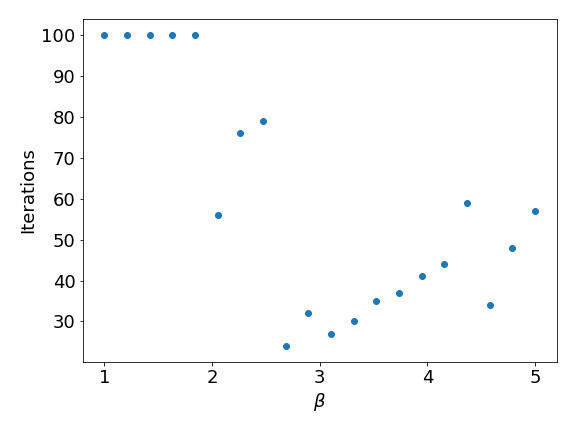
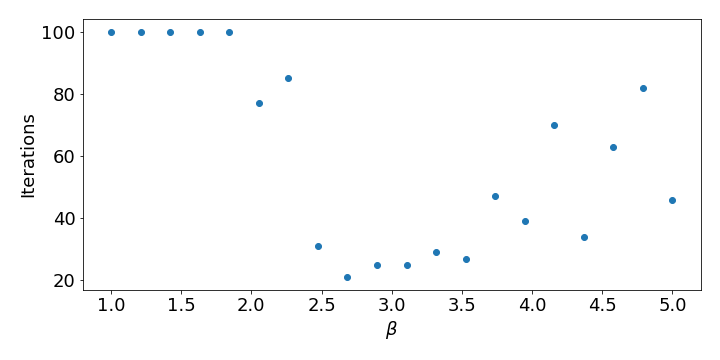
finsh p2b b

diff --git a/main.tex b/main.tex
@@ -1,5 +1,5 @@
 \documentclass[11pt,a4paper]{article}
-\usepackage[left=2.5cm,top=2cm,right=2.5cm,nofoot]{geometry}
+\usepackage[left=2.3cm,top=2cm,right=2.3cm,nofoot]{geometry}
 \usepackage{geometry}
 \usepackage{amsmath}
 \usepackage{amssymb}
@@ -108,11 +108,11 @@ One system of interest in materials science is one where an adsorbed atom, an ad
 
 Both of these challenges will be tackled in this report using Gaussian Processes (GP). The first problem will be approached using Bayesian Optimization, and for the second problem we will train a general purpose model for the PES using only $\sim 100$ potential energy samples. This general purpose model can then be used instead of DFT to study various properties of the adatom \cite{project_pm}. We will specifically apply the general purpose model to predict the potential energy along a transition path for the adatom between two points on the crystal surface, and compare this to the ground-truth transition path as obtained from the PES.
 
-The system of interest in this report is an Au-surface with an Au adatom. Note that this system will be simulated using atomistic simulations through the Python package \texttt{ASE} \cite{ASE}, and hence the ground-truth PES is being computed through MD simulations rather than DFT. However, this report still exemplifies the usefulness of Bayesian Optimization and GP-models for functions that are difficult to evaluate.
+The system of interest in this report is an Au-surface with an Au adatom. Note that this system will be simulated using atomistic simulations through the Python package \texttt{ASE} \cite{ASE}, and specifically that the ground-truth PES is being computed through Embedded Medium Theory (EMT) calculations rather than DFT \cite{project_pm}. However, this report still exemplifies the usefulness of Bayesian Optimization and GP-models for functions that are difficult to evaluate.
 
 \section{Methodology}
 
-In this section we present our methodology for analyzing and approximating the potential energy surface (PES) using Bayesian optimization for a Au surface with an Au atom placed on top. But before we go into detail on the Bayesian optimization, we first present the ground-truth PES that will be used as a basis for the optimization, as well as the results for trying to find the global minimum of the PES using naive local search which serves as a sort of baseline.
+In this section we present our methodology for analyzing and approximating the potential energy surface (PES) using Bayesian optimization for a Au surface with an Au atom placed on top. But before we go into detail on the Bayesian optimization, we first present the ground-truth PES that will be used as a basis for the optimization, as well as the results for trying to find the global minimum of the PES using naive local search.
 
 
 \begin{figure}[ht]
@@ -122,28 +122,26 @@ In this section we present our methodology for analyzing and approximating the p
     \label{fig:pes}
 \end{figure}
 
-The Au system was simulated using \texttt{ASE}, a Python package for atomistic simulations \cite{ASE}, with the surface being given. In order to obtain the PES $E(x,y)$, the surface atom was introduced at different coordinates $(x,y,z)$ with $z$ being set so that the surface atom was placed some distance above the surface, after which the system was relaxed using BFGS as implemented in \texttt{ASE}. The $(x,y)$ values formed a 50x50 grid, and the obtained PES is given in figure \ref{fig:pes}, with the global minimum being marked with a red star. Note that there are many local minima in the PES; a quick visual inspection yields that there are at least 12 local minima. We thus expect that conducting a local search to find the global minimum starting from random positions $(x,y)$ should succeed with a probability around $p \approx 1/12 \approx 8\%$. We performed such a search using 500 walkers with random starting positions, which were then minimized using the \texttt{minimize} function from the Python package \texttt{Scipy} setup to use the gradient-based L-BFGS-B method \cite{scipy_min}. The optimum found by each walker are given in figure \ref{fig:pes} as black dots. The local search resulted in 11.6\% of the walkers converging to the global minimum, which is slightly higher than our expectation, but still highlights the difficulty of performing optimization in complex energy landscapes using (naive) local gradient descent-based algorithms. Thus it is motivated to use methods such as Bayesian optimization, which we will focus on throughout the rest of this report. 
+The Au system was simulated using \texttt{ASE}, a Python package for atomistic simulations \cite{ASE}, with the surface being given. In order to obtain the PES $E(x,y)$, the surface atom was introduced at different coordinates $(x,y,z)$ with $z$ being set so that the surface atom was placed some distance above the surface, after which the system was relaxed using BFGS as implemented in \texttt{ASE}. Since the PES is periodic, we only study the primitive cell $x\in\left(0,16.65653\right)$, $y\in\left(0,2.884996\right)$. The $(x,y)$ values formed a 50x50 grid, and the obtained PES is given in figure \ref{fig:pes}, with the global minimum being marked with a red star with coordinates $(3.4, 0.71)$. Note that there are many local minima in the PES; a quick visual inspection yields that there are at least 12 local minima. We thus expect that conducting a local search to find the global minimum starting from random positions $(x,y)$ should succeed with a probability around $p \approx 1/12 \approx 8\%$. We performed such a search using 500 walkers with random starting positions, which were then minimized using the \texttt{minimize} function from the Python package \texttt{Scipy}, which was setup to use the gradient-based L-BFGS-B method \cite{scipy_min}. The optimum found by each walker are given in figure \ref{fig:pes} as black dots. The local search resulted in 11.6\% of the walkers converging to the global minimum, which is slightly higher than our expectation, but still highlights the difficulty of performing optimization in complex energy landscapes using (naive) local gradient descent-based algorithms. Thus it is motivated to use methods such as Bayesian optimization, which we will focus on throughout the rest of this report. 
 
-\subsection[Task 1]{Task 1-2: Analyzing the PES and local search}
-\label{sec:method_task12}
 
 \subsection[Task 1]{Task 3: Bayesian Optimization}
 \label{sec:method_task3}
-In this task we want to perform a Bayesian optimization algorithm to find the global minimum, but also sample the PES as few times as possible. In general, sampling the PES our any other multidimensional function can be very expensive and time consuming, as in this case performing a DFT calculation. This Bayesian optimization algorithm is based on Gaussian processes (GP), which can be viewed as an infinite dimensional Gaussian distribution where each point in the $(x,y)$-plane is a dimension. The function modelled by the GP (the PES) is then uniquely determined via the GPs covariance function. So by conditioning the GP on some data, we obtain a distribution for the PES everywhere in the $(x,y)$-plane. In this task we used the GPy package to handle the implementation of the GP so we only need to choose how we determine the covariance function. The covariance function is modelled by a kernel and we will use the radial basis function (RBF) kernel which looks like 
+In this task we applied a Bayesian optimization algorithm to find the global minimum, while sampling the PES as few times as possible. In general, sampling the PES or any other multidimensional function can be very expensive and time consuming. The Bayesian optimization algorithm is based on Gaussian processes (GP), which can be viewed as an infinite dimensional Gaussian distribution where each point in the $(x,y)$-plane is a dimension. The function modelled by the GP (the PES) is then uniquely determined via the GPs covariance function. So by conditioning the GP on some data, we obtained a distribution for the PES everywhere in the $(x,y)$-plane. In this task we used the GPy package to handle the implementation of the GP so we only needed to choose how to determine the covariance function. The covariance function was modelled by a kernel and we used the radial basis function (RBF) kernel which looks like 
 \begin{equation*}
     k(x, x') = \sigma^2 \text{exp}(-\frac{1}{2l^2}||x - x'||_{L2}^2),
 \end{equation*}
-where $\sigma^2$ and $l$ is two parameters known as the kernel variance and the kernel length scale. The kernel variance is in a way the amplitude of the covariance and thus describes how large the variations are in the PES. So from figure \ref{fig:pes} we see that the PES has extremums  at 7 eV and 8 eV so the standard deviation maybe lie around 0.3 and the variance then 0.09. So we choosed to set a gamma distributed prior for $\sigma^2 \sim \mathcal{G}(1,0.1)$. The length scale determines how far between the points need to be to not be regarded as correlated, or in other words over how large regions are the PES roughly constant or slowly varying. So from figure \ref{fig:pes} we can see that maximum extends over roughly 0.5 Å. We thus set a prior for the length scale to be a gamma distribution $\mathcal{G}(2,0.5)$ which has mean 0.5 Å.
-\\
+where $\sigma^2$ and $l$ are two parameters known as the kernel variance and the kernel length scale. The kernel variance is in a way the amplitude of the covariance and thus describes how large the variations are in the PES. From figure \ref{fig:pes} we see that the PES has minimum and maximum at 0.2 eV and 1.3 eV, so the standard deviation is around 0.3 and the variance is then around 0.09. Based on this we set a gamma distributed prior for $\sigma^2 \sim \mathcal{G}(1,0.1)$. The length scale determines how far apart the points are regarded as correlated, or in other words over how large regions the PES is roughly constant or slowly varying. From figure \ref{fig:pes} we observe that the PES is roughly constant over distances $\sim \SI{0.5}{Å}$. We thus set a prior for the length scale to be a gamma distribution $\mathcal{G}(2,0.5)$. Furthermore we also added a bias kernel to increase the performance of our GP.
 
-We have now described the basics of a GP and specified a kernel with priors for our parameters and can thus make a prediction $\mu(x,y)$ with standard deviation uncertainty $\delta(x,y)$ over the whole primitive cell. So we now need to define where we want to sample a new point, from our prediction. To decide this we define the acquisition function
-\begin{equation*}
+
+We have now described the basics of a GP and specified a kernel with priors for our parameters. We can thus, by training the GP on some initial data, make a prediction $\mu(x,y)$ with standard deviation uncertainty $\delta(x,y)$ over the whole primitive cell. To search for the global minimum we want to sample a new point, and we thus need to define where to sample this new point, based on our prediction. We define the acquisition function
+\begin{equation}
+    \label{eq:acquisition_function}
     A(x,y) = -\mu(x,y) + \beta \delta(x,y),
-\end{equation*}
-where beta is a hyper parameter we must choose. By finding the the point where the acquisition function as a maximum we sample point where the PES is low and where the GP is uncertain, and the hyper parameter thus balances if we think exploitation or exploration is more important. To summarise the algorithm then consist of first evaluate the PES at 5 random points, training the GP model and do a prediction of the PES. From the prediction we then evaluate the PES again for a point obtained by maximizing the acquisition function and then train a new GP with the new data point. This is then repeated until one is satisfied with the sampling.  
-\\
+\end{equation}
+where beta is a hyper parameter we must choose. By finding the point where the acquisition function has a maximum we sample points where the PES is low and where the GP is uncertain, and the hyper parameter thus balances between exploitation or exploration in the algorithm. The implementation of the algorithm consisted of the following steps. First, evaluate the PES at 5 random points, train the GP model using these points and then do a prediction of the PES. From the prediction, evaluate the PES again for the point obtained by maximizing the acquisition function, and then train a new GP with the new data point added to the old data points. This is then repeated until one is satisfied with the sampling.  
 
-So we now have the complete Bayesian optimisation algorithm and the next part is to decide a good value of the hyper parameter $\beta$. To do this we performed the optimization for many values of $\beta \in (1,5)$ and then evaluated the performance by looking at the convergence. So keeping in mind that we generally want to find the global minimum and evaluate the PES as few times as possible we define convergence to be when the GP finds the global minimum. With this definition we can decide the hyper parameter by choosing the $\beta$ that resulted in least amount of samples. 
+So we now have the complete Bayesian optimisation algorithm and the next part is to decide a good value of the hyper parameter $\beta$. To do this we performed the optimization for many values of $\beta \in (1,5)$ and then evaluated the performance by studying the convergence. So keeping in mind that we generally want to find the global minimum and evaluate the PES as few times as possible we define convergence to be when the GP finds the global minimum. With this definition we can decide the hyper parameter by choosing the $\beta$ that resulted in the least amount of samples. 
 
 
 
@@ -170,14 +168,21 @@ So we now have the complete Bayesian optimisation algorithm and the next part is
 
 In this task, we study GPs as a way of emulating the full PES. Using GPs to emulate the PES yields a fast model which can be used to compute various properties related to the adatom \cite{project_pm}. In this case, we will specifically focus on using the GP model to analyze a transitional path barrier. 
 
-Here we will study the specific transition path through the PES that connects the point $(11,2.1)$ with the global minimum. This could thus be viewed as a having the adatom transition from a position on the Au surface that yields a local minimum in the system energy, to a configuration that minimizes the total system energy. An arbitrary path between the points $(x_1,y_1)$ and $(x_2,y_2)$ can be parameterized by a parameter $\lambda$ that varies between $0\rightarrow1$ as
+Here we will study the specific transition path through the PES that connects the point $(11,2.1)$ with the global minimum at $(3.4,0.71)$. An arbitrary path between the points $(x_1,y_1)$ and $(x_2,y_2)$ can be parameterized by a parameter $\lambda$ that varies between $0\rightarrow1$ as
 
 \begin{equation}
     (x,y) = \left(x_1, y_1 \right ) + \lambda \left(x_2-x_1, y_2-y_1 \right).
 \end{equation}
-Thus by evaluating the GP mean of the obtained model for points $(x,y)$ for various $\lambda$, we obtained the sought transition path as a function of $\lambda$. The uncertainty in the GP prediction along the path was estimated by evaluating the GP variance along the same points $(x,y)$. These results could then be compared to the Bayesian Optimization GP from Task 3 and the ground-truth PES evaluated along the same path. 
+Thus by evaluating the GP mean of the obtained model for points $(x,y)$ for various $\lambda$, we could obtain a transition path as a function of $\lambda$. In our specific case, the starting point $(x_1,y_1)$ was the global minimum and the end point $(x_2,y_2)$ was the point $(11,2.1)$. The uncertainty in the GP prediction along the path was estimated by evaluating the GP variance along the same points $(x,y)$. These results could then be compared to the Bayesian Optimization GP with optimal $\beta$ from Task 3, where the model was trained until convergence was reached, and the ground-truth PES evaluated along the same path. 
 
-In order to obtain a GP model that emulates the ground-truth PES to a high degree, we require a slightly different sampling behaviour as compared to the previous task in section \ref{sec:method_task3}. The key quantity to minimize is the overall uncertainty of the GP over the $\{x,y\}$-domain, and thus we want to sample points where the GP uncertainty is the largest. Thus, the LCB acquisition function in equation \eqref{eq:acquisition_function} was modified by letting $\beta \rightarrow \infty$ \cite{project_pm}. The GP model was then trained by sampling points according to this modified acquisition function, and the convergence of the model was monitored by computing the RMSE (root-mean-squared-error) of the GP mean as compared to the ground truth PES. The same priors, grid size for the acquisition function and number of starting initial data points as in task 3, section \ref{sec:method_task3}, where used.
+In order to obtain a general-purpose GP model that emulates the ground-truth PES to a high degree, we require a slightly different sampling behaviour as compared to the previous task in section \ref{sec:method_task3}. The key quantity to minimize is the overall uncertainty of the GP over the $\{x,y\}$-domain, and hence we want to sample points where the GP uncertainty is the largest. Thus, the acquisition function in equation \eqref{eq:acquisition_function} was modified by letting $\beta \rightarrow \infty$ \cite{project_pm}. The GP model was then trained by sampling points according to this modified acquisition function, and the convergence of the model was monitored by computing the RMSE (root-mean-squared-error) of the GP mean as compared to the ground truth PES. The same priors and number of initial data points as in task 3, section \ref{sec:method_task3}, where used.
+
+
+
+
+
+
+
 
 \section{Results and discussion}
 
@@ -185,84 +190,60 @@ In this section we present our result for Bayesian optimization of the PES, as w
 
 \subsection[Task 1]{Task 3: Bayesian Optimization}
 \label{sec:results_task3}
-To evaluate the model for different values of the hyper parameter $\beta$ figure \ref{fig:task3_iter} is presented. In the figure we see how many iterations it took before the optimization algorithm found the global minimum. From the figure it is clear that the algorithm does not converge for all values of beta. In particular algorithms with to small $\beta$ never finds the global minimum. However, we also see from the figure that large $\beta$ demands more iteration before convergence. Both of these features seems reasonable; for small $\beta$ the algorithm is more likely to keep sampling a local minimum instead of exploring more of the space. This then resulting in sensitivity for the location of the starting point and we end up in the same situation we got for the naive search on task 2. For large $\beta$ we are on the other hand more inclined to explore new parts of the space even if we already samples near the global minimum. This may lead to the sinareo where we found the global minimum but we have not sampled it fine enough to determine its exact location. This scenario could also be very dependent on the convergence condition; how close to the global minimum do you need to sample to say you found it. So from the figure we seem to have a optimal value for the hyper parameter somewhere around $\beta = $???, for which the algorithm finds the global minimum the fastest. However this result is only valid for when we send in this particular set of initial data. For another set of data which is closer to the global minimum the algorithms with low $\beta$ might find it much faster. But also if the global minimum would have been farther away from the initial data maybe algorithms with $\beta$ higher then ??? also would have had trouble finding it. So to decrease this uncertainty and be more confident in the choice of beta one should do this sweep over the hyper parameter many times where different initial data is used and then present the average number of iterations.
+To study the model for different values of the hyper parameter $\beta$ figure \ref{fig:task3_iter} is presented. The figure describes how many iterations the optimization algorithm required before it found the global minimum. From the figure it is clear that the algorithm does not converge for all values of beta. In particular for small $\beta$ the algorithm never finds the global minimum within the number of cutoff iterations. However, observe from the figure that large $\beta$ demands more iterations before convergence. Both of these features seems reasonable; for small $\beta$ the algorithm is more likely to keep sampling a local minimum instead of exploring more of the space. This results in a sensitivity for the location of the starting point and we end up in the same situation we got for the naive search on task 2. For large $\beta$ we are on the other hand more inclined to explore new parts of the space even if we already have samples near the global minimum. Thus, for large $\beta$ the algorithm becomes very dependent on the convergence condition; how close to the global minimum do you need to sample to say you have found it? So from the figure we seem to have a optimal value for the hyper parameter somewhere around $\beta = 2.6$, for which the algorithm finds the global minimum in the fewest number of iterations. However this result is only valid for when we send in this particular set of initial data. For another set of data which is closer to the global minimum the algorithms with low $\beta$ might find it much faster. But also if the global minimum would have been further away from the initial data maybe algorithms with $\beta$ equal or higher then the observed optimal $\beta$ also would have had trouble finding it. So to decrease this uncertainty and be more confident in the choice of beta one should do this sweep over the hyper parameter many times where different initial data is used and then present the average number of iterations.
 
-To further extend on this analysis the choice of convergence criteria is a bit arbitrary and can highlight different aspect of the algorithm. An alternative definition of convergence could for example be when the algorithms samples the same point (to some tolerance) two or more times in a row. This convergence criterion is probably also very sensitive to the initial data, but if that uncertainty is eliminated (as described above) algorithms with lower $\beta$ should always converge faster. The problem is that it does not always converge to the global minimum so one here also needs to consider how many times (different initial data) the algorithms finds the global minimum for each value of $\beta$ and then balance the two curves of the convergence and efficiency of finding the global minimum. To use this convergence condition may be more reasonable since we in a general situation do not know the global minimum and then needs some other condition on when to stop sampling. In the other case the thing we really are interasted in is to find the global minimum with as few evaluations of the PES as possible which the convergence condition we used highlights. However both of these methods to decide $\beta$ and especially the condition we used probably  generalize poorly to other functions since it could be very sensitive to the form of the function.
+To further extend on this analysis, the choice of convergence criteria is a bit arbitrary and can highlight different aspects of the algorithm. An alternative definition of convergence could for example be when the algorithms samples the same point (to some tolerance) two or more times in a row. This convergence criterion is probably also very sensitive to the initial data, but if that uncertainty is eliminated (as described above) algorithms with lower $\beta$ should always converge faster. The problem is that it does not always converge to the global minimum so one here also needs to consider how many times (different initial data) the algorithms finds the global minimum for each value of $\beta$, and then find the $\beta$ that balances the convergence and efficiency of finding the global minimum. To use this convergence condition may be more reasonable since we in a general situation do not know the global minimum and then needs some other condition on when to stop sampling. On the other hand, the thing we really are interested in is to find the global minimum with as few evaluations of the PES as possible which the convergence condition we used highlights. However both of these convergence conditions to decide $\beta$, especially the condition we used, probably generalize poorly to other functions since it could be very sensitive to the specific form of the function.
 
-\begin{figure}[H]
+\begin{figure}[ht]
     \centering
-    \includegraphics[width = 0.8\textwidth]{figures/task3_iter.png}
-    \caption{Caption}
+    \includegraphics[width = 0.6\textwidth]{figures/task3_iter.png}
+    \caption{Number of iterations required for the algorithm to find the global minimum for different values of the hyper paramer $\beta$.}
     \label{fig:task3_iter}
 \end{figure}
 
-\begin{figure}[H]
-    \centering
-    \includegraphics[width = 0.8\textwidth]{figures/task3_mean.png}
-    \caption{Caption}
-    \label{fig:my_label}
-\end{figure}
-
-\begin{figure}[H]
-    \centering
-    \includegraphics[width = 0.8\textwidth]{figures/task3_var.png}
-    \caption{Caption}
-    \label{fig:my_label}
-\end{figure}
-
-\begin{figure}[H]
-    \centering
-    \includegraphics[width = 0.8\textwidth]{figures/task3_acq.png}
-    \caption{Caption}
-    \label{fig:my_label}
-\end{figure}
-
-So once we had decided on a good value for $\beta = $??
-? we reran the algorithm and the result is presented in figure \ref{fig:task3_pred}. In the figure we see prediction of the GP for the PES together with the predicted uncertainty and the acquisition function. This all for the last step in the algorithms, i.e when we converged. From the mean plot we can clearly see that it has found the global minimum and captures the features of the the PES close to the minimum. For other regions however the GP does not capture the PES, which is good since we only are interested in finding the Global minimum. From the figure we also see a heat map for the standard deviation uncertainty over the primitive cell. We can see that the uncertainty varies a bit over the cell and is generally much lower near the samples, which is expected. From the figure we also see the acquisition function which as expected balance the search between searching the found minimum and the uncertain areas. We can also see that the acquisition function that is large in a big portion of the area..... 
+Once we had decided on a good value for $\beta = 2.6$ we reran the algorithm and the result is presented in figure \ref{fig:task3_pred}. In the figure we see the prediction of the GP for the PES together with the predicted uncertainty and the acquisition function. These are for the last step in the algorithm, i.e when the model had converged. From the mean plot we can clearly see that the model has found the global minimum and captures the features of the PES close to the minimum. For other regions however the GP does not capture the PES, which is good since we only are interested in finding the global minimum. From the figure we also see a heat map for the standard deviation uncertainty over the primitive cell. We can see that the uncertainty varies a bit over the cell and is generally much lower near the samples, which is expected. We also notice that the uncertainty seems to be largest around the maximas of the PES seen in \ref{fig:pes}. This is also very reasonable since maxima are the least interesting to sample according to the acquisition function. Finally, in the figure we also see the acquisition function which as expected balances the search of the found minimum and the uncertain areas.
 
 
-One interesting observation that can be made from the figure is that many of the sampled points lay along the edges of the primitive cell. This feature was generally observed when performing the optimization and was even more prominent when we had more samples. We conclude that this must be because the GP becomes much more uncertain in its prediction near the edges. This is very reasonable since the edge break the symmetry of where nearby sampled points are located from which we can use in the inference. This effectively leads to at this points the GP is almost doing an extrapolation instead of an interpolation. However we know that the primitive cell is periodic so in a sense we have sampled points outside the boundary condition, this information is unfortunately not used in the GP. Having said that this can be built into the GP by using a periodic kernel instead. We made some attempts with the Standard periodic kernel but had some trouble with instability of the method. But when it worked the sampling was distributed much better over the primitive cell and we avoided sampling the edge over and over again. Ultimatly this leads to the need of fewer samples and we strongly believe that the best way to sample this PES is to use the knowledge of periodicity in the GP by encoding it in the kernel. 
+One interesting observation that can be made from the figure is that many of the sampled points lay along the edges of the primitive cell. This feature was generally observed when performing the optimization and was even more prominent when we had more samples. We conclude that this must be because the GP becomes much more uncertain in its prediction near the edges. This is reasonable since the edge breaks the symmetry of where nearby sampled points are located, from which we can use in the inference. This effectively leads to the GP almost performing some sort of extrapolation instead of an interpolation near the edge. However, we know that the primitive cell is periodic so in a sense we have sampled points outside the boundary. This knowledge of the periodicity is unfortunately not used in the GP. Having said that, this can be built into the GP by using a periodic kernel instead. We made some attempts with the Standard periodic kernel but had some trouble with instability of the method. But when it worked the sampling was distributed much better over the primitive cell and we avoided sampling the edge over and over again. Ultimately this leads to the need for fewer samples and we strongly believe that the best way to sample this PES is to use the knowledge of periodicity in the GP by encoding it in the kernel. 
 
 
-\begin{figure}[H]
-    \centering
-    \includegraphics[width = 1\textwidth]{figures/task3_pred.png}
-    \caption{Caption}
+\begin{figure}[ht]
+    \hspace{-50pt}
+    %\centering
+    \includegraphics[width = 1.2\textwidth]{figures/task3_pred.png}
+    \caption{To the left the acquisition function when the the algorithm find the global minimum together with the initial and sampled data points. In the middle the mean prediction of the GP over the PES and to the right the GPs uncertainty in its prediction. }
     \label{fig:task3_pred}
 \end{figure}
 
 \subsection[Task 4]{Task 4: Transition path barriers}
 \label{sec:results_task4}
 
-We finally turn to the results for the use of a general GP as a proxy for the PES, and how it can be used to predict a transition path for the adatom on the Au surface. The RMSE as monitored during training of the GP is given in figure \ref{fig:task4_rmse}. The RMSE is computed as the root-mean-squared error between the GP mean and the ground-truth PES, and is given as a function of the number of training samples as acquired by the modified acquisition function. We note that the training RMSE features some plateaus and fluctuations. The plateaus could correspond to local minimum in the GP optimization landscape, and the fluctuations could be due to the model not having fully converged and thus not being ''robust''. However, after around 120 samples the RMSE starts to decrease monotonously, and seems to flatten out at around 150 samples at a low training RMSE of $\SI{0.04}{eV}$. We thus conclude that around 150 samples are required to reach a general GP that represents the ground-truth PES well. This is fewer than what was used to computed the ground-truth PES in figure \ref{fig:pes}, where 2500 (50x50) energy samples was used.
+We finally turn to the results for the use of a general-purpose GP as a proxy for the PES, and how it can be used to predict a transition path for the adatom on the Au surface. The RMSE as monitored during training of the GP is given in figure \ref{fig:task4_rmse}. The RMSE is computed as the root-mean-squared error between the GP mean and the ground-truth PES, and is given as a function of the number of training samples as acquired by the modified acquisition function. We note that the training RMSE features some plateaus. The plateaus could correspond to local minimum in the GP optimization landscape, or that some of the sampled points do not contain enough information to improve the GP mean prediction. We observed during training that a substantial number of samples where drawn from the boundary of the primitive cell. As discussed in Task 3, the symmetry break induced by the edge may lead to an artificially high uncertainty, which means that these points will be sampled without contributing all that much to the mean prediction. However, after around 120 samples the RMSE starts to decrease monotonously, and seems to flatten out at around 150 samples at a low training RMSE of $\SI{0.04}{eV}$. We thus conclude that around 150 samples are required to reach a general GP that represents the ground-truth PES well. This is fewer than what was used to computed the ground-truth PES in figure \ref{fig:pes}, where 2500 (50x50) energy samples were used, which could be an enormous difference in the cases where the PES is computationally difficult to compute.
 
 \begin{figure}[ht]
     \centering
     \begin{subfigure}{.46\textwidth}
           \centering
-          \includegraphics[width=0.95\textwidth]{figures/task4_train.png}
+          \includegraphics[width=1\textwidth]{figures/task4_train.png}
           \caption{Training RMSE for general GP}
           \label{fig:task4_rmse}
     \end{subfigure}%
     \begin{subfigure}{.46\textwidth}
           \centering
-          \includegraphics[width=0.95\textwidth]{figures/task4_path.png}
+          \includegraphics[width=1\textwidth]{figures/task4_path.png}
           \caption{Predicted and ground-truth transition path}
     \label{fig:task4_transition}
     \end{subfigure}
-    \caption{}
+    \caption{RMSE compared to the ground-truth PES as monitored during the training of the general-purpose GP, as well as predicted and ground-truth potential energy along the studied transition path.}
     \label{fig:task4}
 \end{figure}
 
-The potential energy transition path for the adatom transitioning between two points on the Au-surface is given in figure \ref{fig:task4_transition}. The mean predicted path from the general GP (referred to as Task 4), $\mu_{GP}$ is given as the blue filled line, with a one standard deviation error band obtained from the GP variance, $\sqrt{\sigma^2_{GP}}$, represented by the blue shadowed area. The mean predicted path for the Bayesian optimization GP (Task 3) is given as the red dashed line, with the one standard deviation error band given by the red shadowed area. Finally, the ground-truth transition path as obtained from the PES is given as the dotted black line. We observe that both the mean and the one-standard deviation error bands for both the Bayesian optimization GP and the general GP overlap almost perfectly. Furthermore, both GPs seems to model the the ground-truth PES fairly well, with it being mostly covered by the one-standard deviation error band. However, both GP models undershoots the ground-truth around the peak at $\lambda\approx0.6$ as well as close to the global minimum, i.e. for $\lambda\approx 0$, except for at the minimum point $\lambda = 0$. Furthermore, the GP variances are generally the largest at the peaks of the PES, with it being the largest in the vicinity of the peak at $\lambda\approx0.6$ which is gravely undershot. 
+The potential energy transition path for the adatom transitioning between the two points on the Au-surface is given in figure \ref{fig:task4_transition}. The mean predicted path from the general GP (referred to as Task 4), $\mu_{GP}$ is given as the blue filled line, with a one standard deviation error band obtained from the GP variance, $\sqrt{\sigma^2_{GP}}$, represented by the blue shadowed area. The mean predicted path for the Bayesian optimization GP (Task 3) is given as the red dashed line, with the one standard deviation error band given by the red shadowed area. Finally, the ground-truth transition path as obtained from the PES is given as the dotted black line. We observe that the general purpose GP follows the ground-truth PES fairly well with it being mostly covered by the one-standard deviation error band, whilst the Bayesian optimization GP only manages to capture some of the rough features of the PES. Furthermore, the general-purpose GP model deviates from the ground-truth around the peak at $\lambda\approx0.6$ as well as close to the global minimum, i.e. for $\lambda\approx 0$, except for at the minimum point $\lambda = 0$. The general-purpose GP variance is also generally the largest at the peaks of the PES, with it being the largest in the vicinity of the peak at $\lambda\approx0.6$. Note that the variance is larger in general for the Bayesian optimization GP than for the general-purpose GP, which can be explained by the Bayesian optimization GP being trained on $\sim20$ data points, whilst the general-purpose GP was trained on $\sim 150$ data points.
 
-These results indicates two things. First, that Bayesian optimization using fairly few data points, $\sim 20$, performs as well as the general GP trained using $\sim 100$ data points for this transition path. Thus, our results indicate that one can decrease the number of points one needs to sample by optimizing the LCB acquisition function and setting an optimal $\beta$ for a balance between exploration and exploitation of the PES. The general GP can hence be viewed as more of a ``brute-force'' approach. Secondly, that the GP models reproduce the PES fairly well motivates that Gaussian processes in general could be effectively used as a proxy model for the PES to compute properties of the system with reasonable accuracy, in situations where the ground-truth PES is difficult to sample and one thus has access to a limited number of data points. However, there are some deviations for the GP models, especially around the global minimum ($\lambda\approx 0$), and hence the specific GP models studied in this report may not be perfectly suitable for applications which depend on a accurate modelling around the global minimum. It is possible that the use of other kernels which utilize more information of the system, such as the Standard periodic kernel discussed in the previous section, may be able to represent the area around the global minimum with higher accuracy.
+These results indicates two things. First, that the use of a general-purpose GP performs much better than one obtained by using Bayesian optimization. Perhaps unsurprisingly, this can be explained by that the two models are used to answer different questions; the Bayesian optimization algorithm aims to find the global minimum as quickly as possible (i.e. using as little data as possible), whilst the general-purpose model tries to model the ground-truth PES as closely as possible. Interestingly, the root of these different behaviours for the two models lies in the acquisition function, and highlights that the general-purpose GP is a special case of the Bayesian optimization algorithm in which exploration of the PES is the only thing that is valued ($\beta \rightarrow\infty$). Secondly, that the general-purpose GP model reproduce the PES fairly well motivates that Gaussian processes in general could be effectively used as a proxy model for the PES to compute properties of the system with reasonable accuracy, in situations where the ground-truth PES is difficult to sample and one thus has access to a limited number of data points. However, there are some deviations for the GP models, especially around the peaks and close to the global minimum ($\lambda\approx 0$) of the PES, and hence the specific GP models studied in this report may not be perfectly suitable for applications which depend on an accurate modelling in these regions. Note though that we observed during training that a lot of the sampled points for the general-purpose model ended up on the boundary of the primitive cell. It is thus possible that the use of other kernels which utilize more information of the system, such as the Standard periodic kernel discussed in Task 3, may lead to a better sampling of the primitive cell, and by extension to a better representation of the PES in the regions where the general-purpose GP deviates from the ground-truth.
 
 % TODO Lägg till modell från task 3
 
-
-
-\newpage
 \printbibliography
 
 \end{document}
